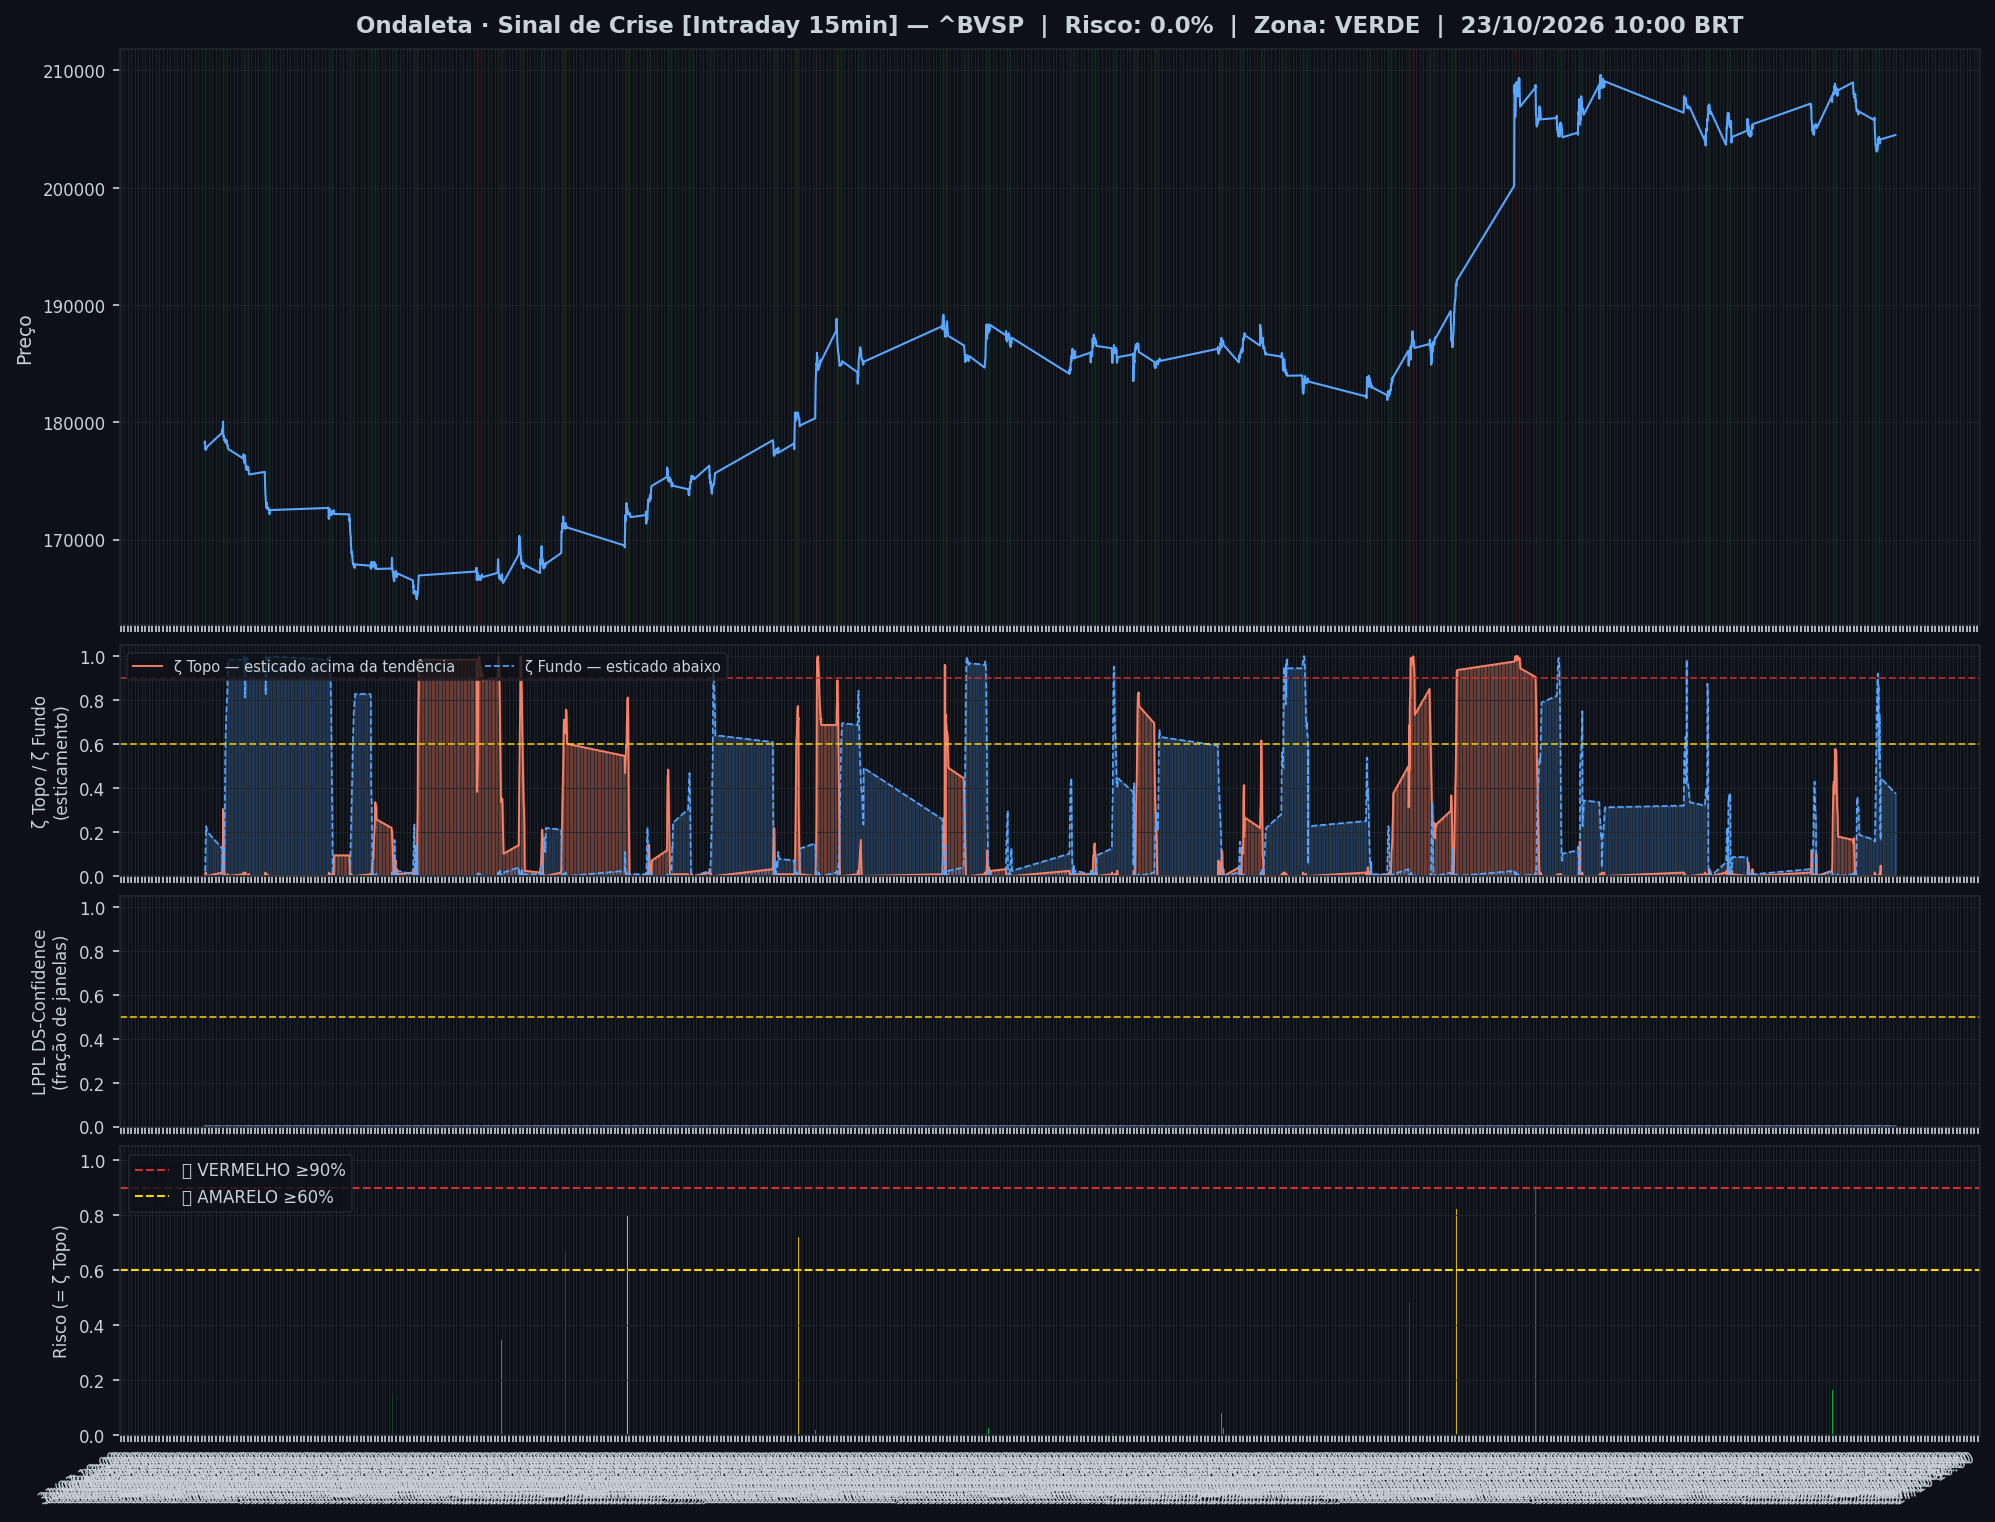
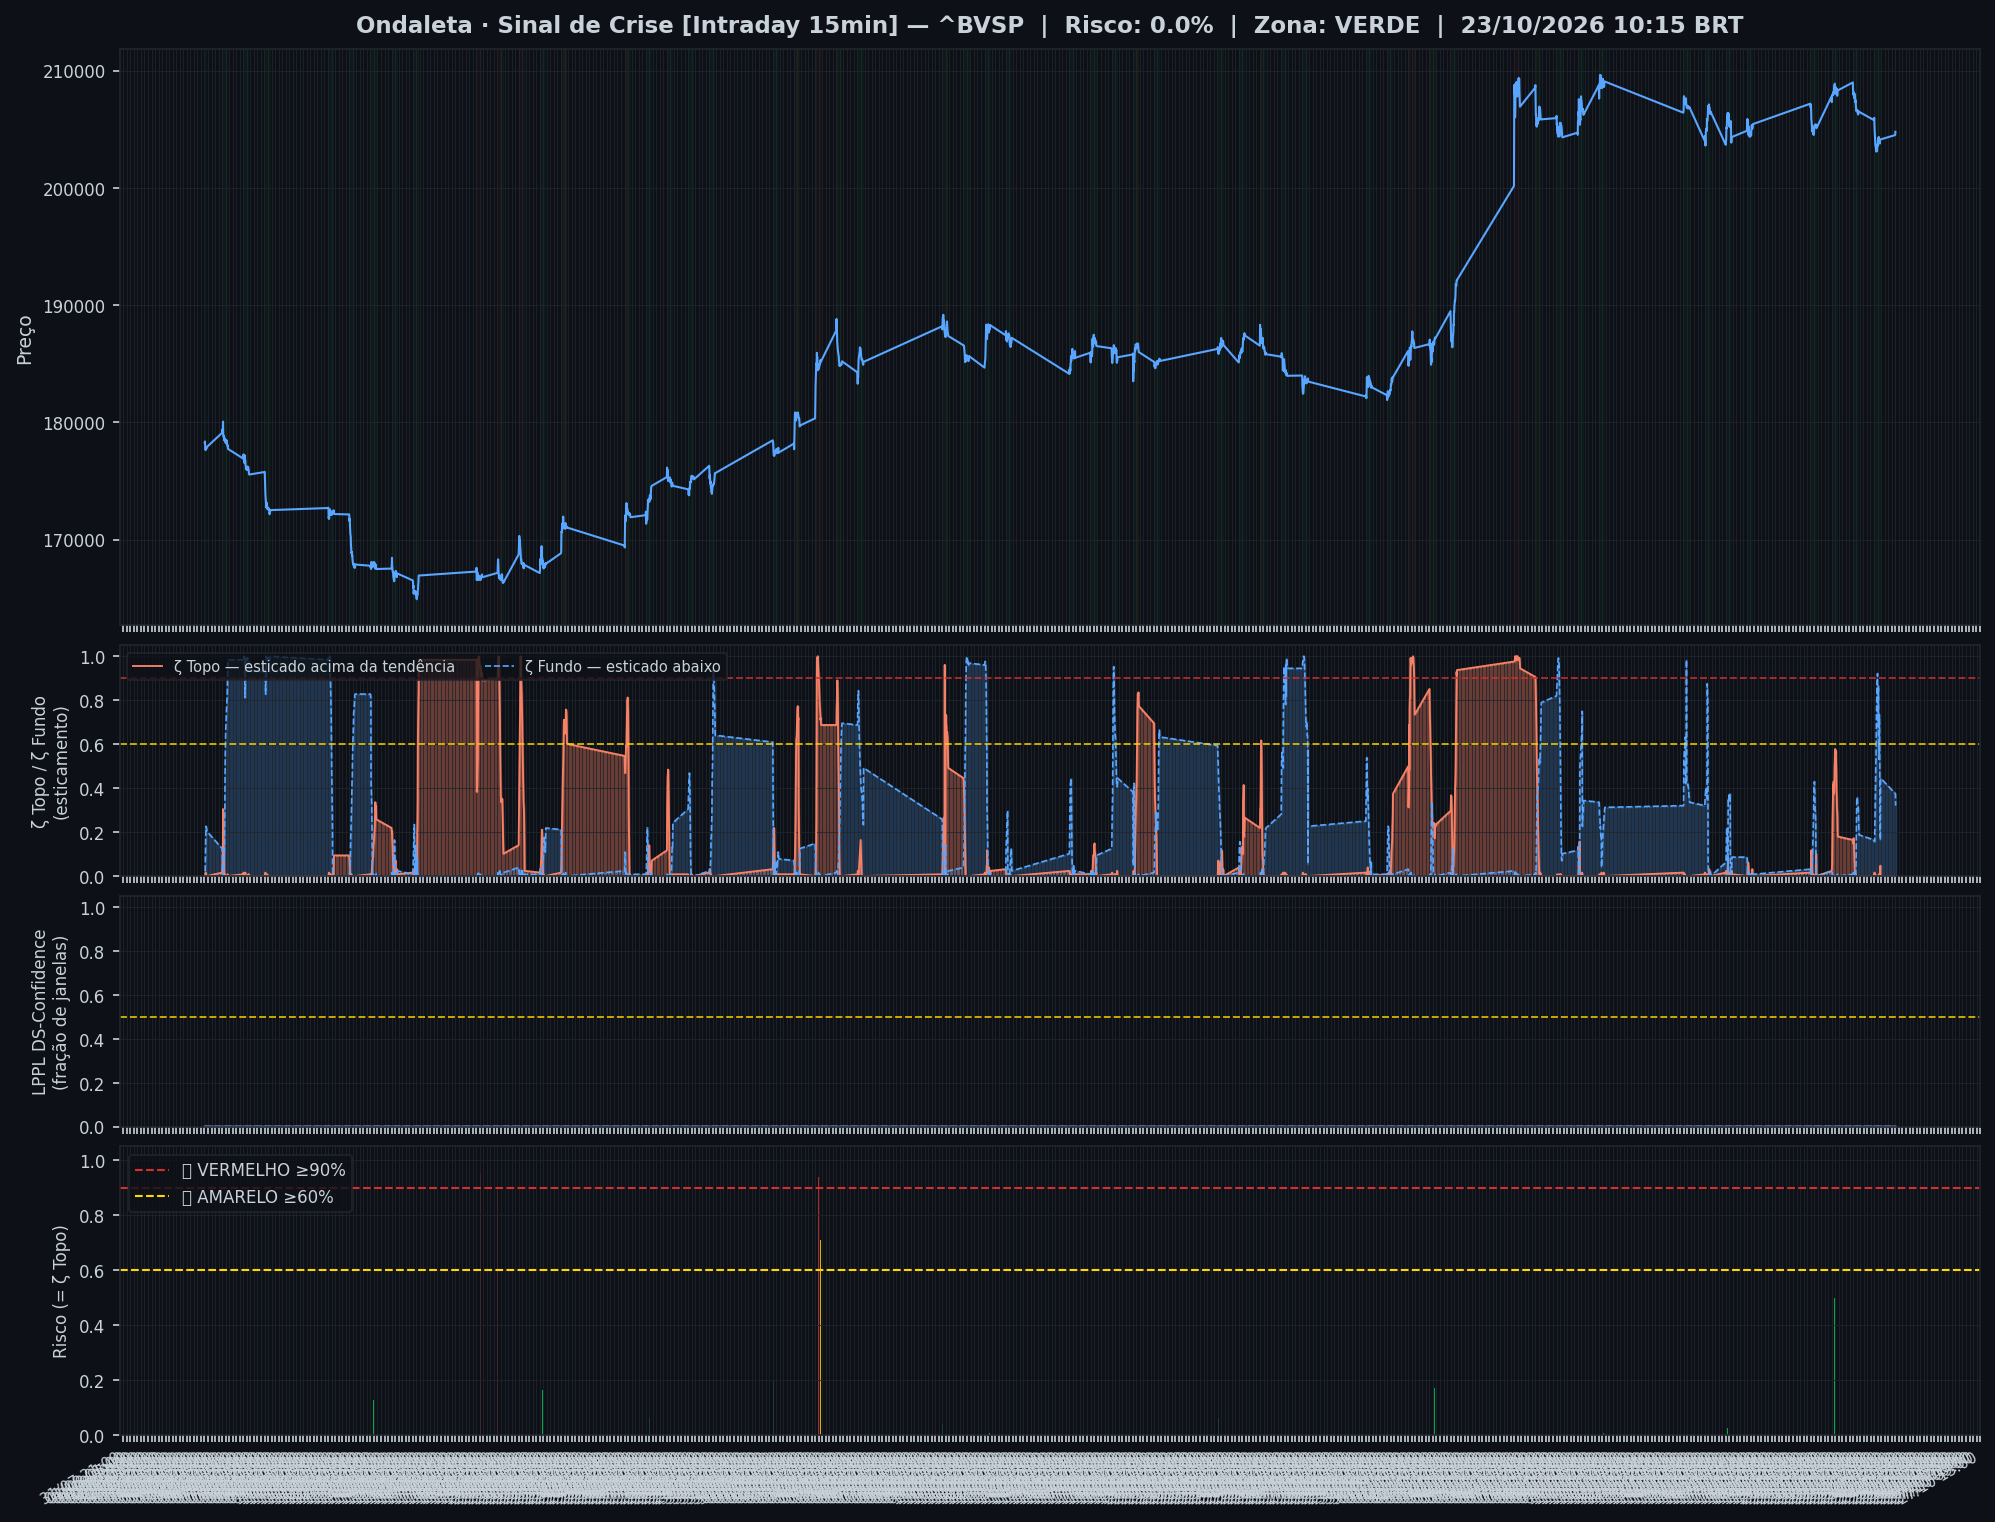
🤖 Auto: Sinal 23/10/2026 10:30

Changed region(s): [[0.0932, 0.4323, 0.9634, 0.5867], [0.0311, 0.9264, 0.9945, 0.9882], [0.8391, 0.0618, 0.8702, 0.0926]]

diff --git a/content/intraday/2026-10-23.md b/content/intraday/2026-10-23.md
@@ -1,11 +1,11 @@
 ---
-title: "🟢 Intraday 23/10/2026 10:00 BRT — VERDE"
+title: "🟢 Intraday 23/10/2026 10:15 BRT — VERDE"
 date: 2026-10-23
 tags: [intraday]
 ---
 
-> [!success] Onde o mercado está agora (23/10 10:00, candles de 15 min): **🟢 Calmo**
-> `Pânico ◀──────●──────────────▶ Euforia`
+> [!success] Onde o mercado está agora (23/10 10:15, candles de 15 min): **🟢 Calmo**
+> `Pânico ◀───────●─────────────▶ Euforia`
 >
 > O Ibovespa está dentro da sua faixa normal, sem excesso para cima nem para baixo.
 > No gráfico diário: 🟡 Preço esticado acima da tendência.
@@ -20,7 +20,7 @@ tags: [intraday]
 > | 📍 **Sinais** | hoje: nenhum sinal<br>⚠ alerta raro de topo mensal em formação | [abrir](sinais-topo-fundo/) |
 > | 🧪 **Placar ao vivo** | nenhuma operação encerrada ainda (desde 23/10/2026) | [abrir](operacoes/) |
 
-> [!success] Sinal de Crise · Intraday 15 min (23/10 10:00): 🟢 **VERDE** — Risco 0% · ＝ +0 p.p. vs leitura anterior
+> [!success] Sinal de Crise · Intraday 15 min (23/10 10:15): 🟢 **VERDE** — Risco 0% · ＝ +0 p.p. vs leitura anterior
 > `░░░░░░░░░░░░░░░░░░░░`
 > Preço na faixa normal em torno da tendência.
 
@@ -32,13 +32,13 @@ tags: [intraday]
 >
 > *Leitura educacional baseada em 26 anos de dados, não recomendação. [Como usar](../metodologia/crise#3-como-usar-na-prática).*
 
-| Indicador — Sinal de Crise · Intraday 15 min (23/10 10:00) | Valor |
+| Indicador — Sinal de Crise · Intraday 15 min (23/10 10:15) | Valor |
 |---|---|
 | 🔴 ζ Topo — preço esticado acima da tendência | **0%** |
-| 🔵 ζ Fundo — preço esticado abaixo da tendência | 38% |
+| 🔵 ζ Fundo — preço esticado abaixo da tendência | 32% |
 | 🫧 LPPL bolha — alta super-exponencial (risco de crash) | 0% |
 | 🫧 LPPL antibolha — queda super-exponencial (risco de repique) | 0% |
-| 📊 Ibovespa | 204.496 pts |
+| 📊 Ibovespa | 204.777 pts |
 
 ![Gráfico do sinal](../graficos/sinal_intraday.png)
 
@@ -46,6 +46,7 @@ tags: [intraday]
 
 | Data | Zona | Evento | Risco | ζ Topo | ζ Fundo | LPPL |
 |---|---|---|---|---|---|---|
+| 2026-10-23 10:15 | 🟢 VERDE |  | **0%** | 0% | 32% | 0% |
 | 2026-10-23 10:00 | 🟢 VERDE |  | **0%** | 0% | 38% | 0% |
 | 2026-10-22 17:15 | 🟢 VERDE |  | **0%** | 0% | 45% | 0% |
 | 2026-10-22 17:00 | 🟢 VERDE |  | **5%** | 5% | 16% | 0% |
@@ -75,49 +76,48 @@ tags: [intraday]
 | 2026-10-22 11:00 | 🟢 VERDE |  | **1%** | 1% | 30% | 0% |
 | 2026-10-22 10:45 | 🟢 VERDE |  | **0%** | 0% | 23% | 0% |
 | 2026-10-22 10:30 | 🟢 VERDE |  | **1%** | 1% | 16% | 0% |
-| 2026-10-22 10:15 | 🟢 VERDE |  | **2%** | 2% | 16% | 0% |
 
 <small>Destaques: 🟡 ≥ 60% · 🔴 ≥ 90% (Risco e ζ Topo) · 🔵 ≥ 60% · 🔪 ≥ 90% (ζ Fundo) · 🫧 ≥ 30% · 🫧🔴 ≥ 50% (LPPL)</small>
 
 ## Monitor Multi-Ativo
 
-**4% dos ativos em tensão** (1🔴 1🟡) · **4 com ζ Fundo alto** — quanto mais ativos disparam juntos, mais confiável o sinal.
+**4% dos ativos em tensão** (1🔴 0🟡) · **4 com ζ Fundo alto** — quanto mais ativos disparam juntos, mais confiável o sinal.
 
 > [!danger] Em destaque no multi-ativo
-> 🔴 **COPEL** ζ Topo 95% · 🔪 **EMBRAER** ζ Fundo 93% · 🔵 **USD/BRL** ζ Fundo 80% · 🔵 **VALE** ζ Fundo 78% · 🔵 **GERDAU** ζ Fundo 73%
+> 🔴 **COPEL** ζ Topo 95% · 🔪 **EMBRAER** ζ Fundo 93% · 🔵 **USD/BRL** ζ Fundo 84% · 🔵 **GERDAU** ζ Fundo 76% · 🔵 **VALE** ζ Fundo 69%
 
 | Zona | Ativo | Setor | ζ Topo | ζ Fundo |
 |---|---|---|---|---|
-| 🔴 | **COPEL** | Energia | 🔴 **94.5%** | 0.8% |
-| 🟢 | **EMBRAER** | Outros | 0.0% | 🔪 **93.0%** |
-| 🟢 | **USD/BRL** | Câmbio | 0.0% | 🔵 **80.5%** |
-| 🟢 | **VALE** | Mineração | 0.0% | 🔵 **78.1%** |
-| 🟢 | **GERDAU** | Siderurgia | 0.8% | 🔵 **73.4%** |
-| 🟡 | **AXIA ENERGIA** | Energia | 50.8% | 0.0% |
-| 🟢 | **B3** | Financeiro | 37.5% | 0.0% |
-| 🟢 | **BTGP BANCO** | Financeiro | 36.7% | 0.0% |
-| 🟢 | **BRASIL** | Financeiro | 34.4% | 0.0% |
-| 🟢 | **ULTRAPAR** | Outros | 0.8% | 30.5% |
-| 🟢 | **REDE D OR** | Saúde | 28.1% | 1.6% |
-| 🟢 | **WEG** | Industrial | 0.0% | 27.3% |
-| 🟢 | **SABESP** | Saneamento | 26.6% | 0.8% |
-| 🟢 | **EQUATORIAL** | Energia | 20.3% | 0.8% |
-| 🟢 | **PRIO** | Petróleo | 14.1% | 0.0% |
-| 🟢 | **ENEVA** | Energia | 0.0% | 10.2% |
-| 🟢 | **AMBEV S/A** | Consumo | 9.4% | 0.0% |
-| 🟢 | **PETROBRAS** | Petróleo | 7.0% | 0.0% |
-| 🟢 | **ITAUUNIBANCO** | Financeiro | 0.0% | 5.5% |
-| 🟢 | **BRADESCO** | Financeiro | 2.3% | 3.9% |
-| 🟢 | **PETROBRAS** | Petróleo | 3.1% | 2.3% |
-| 🟢 | **VIBRA** | Energia | 2.3% | 2.3% |
-| 🟢 | **ITAUSA** | Financeiro | 1.6% | 0.8% |
-| 🟢 | **LOCALIZA** | Aluguel | 1.6% | 0.0% |
+| 🔴 | **COPEL** | Energia | 🔴 **95.3%** | 0.8% |
+| 🟢 | **EMBRAER** | Outros | 0.8% | 🔪 **93.0%** |
+| 🟢 | **USD/BRL** | Câmbio | 0.0% | 🔵 **84.4%** |
+| 🟢 | **GERDAU** | Siderurgia | 1.6% | 🔵 **75.8%** |
+| 🟢 | **VALE** | Mineração | 0.0% | 🔵 **68.8%** |
+| 🟢 | **BTGP BANCO** | Financeiro | 44.5% | 0.0% |
+| 🟢 | **B3** | Financeiro | 39.8% | 0.8% |
+| 🟢 | **REDE D OR** | Saúde | 39.8% | 0.8% |
+| 🟢 | **SABESP** | Saneamento | 39.1% | 1.6% |
+| 🟢 | **BRASIL** | Financeiro | 37.5% | 0.0% |
+| 🟢 | **AXIA ENERGIA** | Energia | 34.4% | 0.0% |
+| 🟢 | **EQUATORIAL** | Energia | 28.1% | 1.6% |
+| 🟢 | **WEG** | Industrial | 0.0% | 20.3% |
+| 🟢 | **ULTRAPAR** | Outros | 1.6% | 20.3% |
+| 🟢 | **PRIO** | Petróleo | 19.5% | 0.8% |
+| 🟢 | **PETROBRAS** | Petróleo | 17.2% | 0.8% |
+| 🟢 | **ENEVA** | Energia | 0.0% | 11.7% |
+| 🟢 | **PETROBRAS** | Petróleo | 10.2% | 2.3% |
+| 🟢 | **BRADESCO** | Financeiro | 2.3% | 9.4% |
+| 🟢 | **ITAUUNIBANCO** | Financeiro | 0.0% | 4.7% |
+| 🟢 | **AMBEV S/A** | Consumo | 4.7% | 0.8% |
+| 🟢 | **LOCALIZA** | Aluguel | 3.9% | 0.0% |
+| 🟢 | **VIBRA** | Energia | 3.9% | 0.8% |
+| 🟢 | **ITAUSA** | Financeiro | 0.8% | 1.6% |
 
 <small>Destaques: 🟡 ≥ 60% · 🔴 ≥ 90% (Risco e ζ Topo) · 🔵 ≥ 60% · 🔪 ≥ 90% (ζ Fundo) · 🫧 ≥ 30% · 🫧🔴 ≥ 50% (LPPL)</small>
 
 ![Monitor multi-ativo](../graficos/multi_intraday.png)
 
-*Página atualizada em 23/10/2026 10:15 BRT (leitura da barra de 2026-10-23 10:00 BRT).*
+*Página atualizada em 23/10/2026 10:30 BRT (leitura da barra de 2026-10-23 10:15 BRT).*
 
 > [!info]- Como interpretar (clique para expandir)
 > - **ζ Topo**: fração dos coeficientes wavelet (Chapéu Mexicano, Caetano & Yoneyama 2009) acima de +0,8σ na faixa mais recente. Na ponta da série isso acontece quando o preço termina **esticado acima da tendência** em muitas escalas — euforia/topo. ζ=0,90 é o limiar de Caetano: quedas que partiram desse padrão foram mais fundas. **É risco de reversão, não data do crash.**

diff --git a/content/index.md b/content/index.md
@@ -6,10 +6,10 @@ tags: [home]
 
 **As ondas do mercado, explicadas.** Leitura do Ibovespa com estatística de 26 anos, baseada no trabalho de pesquisadores e traders reconhecidos e adaptada por Jarbas Daniel da Costa.
 
-*Última atualização: 23/10/2026 10:15 BRT · Intraday 15min*
+*Última atualização: 23/10/2026 10:30 BRT · Intraday 15min*
 
-> [!success] Onde o mercado está agora (23/10 10:00, candles de 15 min): **🟢 Calmo**
-> `Pânico ◀──────●──────────────▶ Euforia`
+> [!success] Onde o mercado está agora (23/10 10:15, candles de 15 min): **🟢 Calmo**
+> `Pânico ◀───────●─────────────▶ Euforia`
 >
 > O Ibovespa está dentro da sua faixa normal, sem excesso para cima nem para baixo.
 > No gráfico diário: 🟡 Preço esticado acima da tendência.
@@ -42,26 +42,26 @@ tags: [home]
 > *Leitura educacional baseada em 26 anos de dados, não recomendação. [Como usar](metodologia/crise#3-como-usar-na-prática).*
 
 > [!info]- 🌊 Detalhes do Sinal de Crise (indicadores e últimos 7 pregões)
-> > [!success] Sinal de Crise · Intraday 15 min (23/10 10:00): 🟢 **VERDE** — Risco 0% · ＝ +0 p.p. vs leitura anterior
+> > [!success] Sinal de Crise · Intraday 15 min (23/10 10:15): 🟢 **VERDE** — Risco 0% · ＝ +0 p.p. vs leitura anterior
 > > `░░░░░░░░░░░░░░░░░░░░`
 > > Preço na faixa normal em torno da tendência.
 >
 >
-> | Indicador — Sinal de Crise · Intraday 15 min (23/10 10:00) | Valor |
+> | Indicador — Sinal de Crise · Intraday 15 min (23/10 10:15) | Valor |
 > |---|---|
 > | 🔴 ζ Topo — preço esticado acima da tendência | **0%** |
-> | 🔵 ζ Fundo — preço esticado abaixo da tendência | 38% |
+> | 🔵 ζ Fundo — preço esticado abaixo da tendência | 32% |
 > | 🫧 LPPL bolha — alta super-exponencial (risco de crash) | 0% |
 > | 🫧 LPPL antibolha — queda super-exponencial (risco de repique) | 0% |
-> | 📊 Ibovespa | 204.496 pts |
+> | 📊 Ibovespa | 204.777 pts |
 >
-> **Multi-ativo:** 4% em tensão (1🔴 1🟡 de 24 ativos)
+> **Multi-ativo:** 4% em tensão (1🔴 0🟡 de 24 ativos)
 >
 > **Últimos 7 pregões**
 >
 > | Data | Zona | Risco | ζ Topo | ζ Fundo | LPPL |
 > |---|---|---|---|---|---|
-> | [23/10/2026](intraday/2026-10-23) | 🟢 VERDE | **0%** | 0% | 38% | 0% |
+> | [23/10/2026](intraday/2026-10-23) | 🟢 VERDE | **0%** | 0% | 32% | 0% |
 > | [22/10/2026](intraday/2026-10-22) | 🟢 VERDE | **0%** | 0% | 45% | 0% |
 >
 > <small>Destaques: 🟡 ≥ 60% · 🔴 ≥ 90% (Risco e ζ Topo) · 🔵 ≥ 60% · 🔪 ≥ 90% (ζ Fundo) · 🫧 ≥ 30% · 🫧🔴 ≥ 50% (LPPL)</small>

diff --git a/content/historico.md b/content/historico.md
@@ -7,6 +7,7 @@ tags: [historico]
 
 | Data | Modo | Zona | Risco | IMA | LPPL |
 |---|---|---|---|---|---|
+| 2026-10-23 10:15 | intraday | 🟢 VERDE | 0% | 0% | 0% |
 | 2026-10-23 10:00 | intraday | 🟢 VERDE | 0% | 0% | 0% |
 | 2026-10-22 | diario | 🟡 AMARELO | 🟡 **78%** | 🟡 **78%** | 0% |
 | 2026-10-22 17:15 | intraday | 🟢 VERDE | 0% | 0% | 0% |
